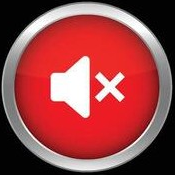
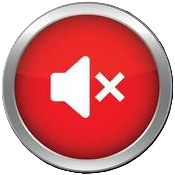
levels added

Changed region(s): [[0.0, 0.0, 1.0, 1.0]]

diff --git a/script.js b/script.js
@@ -70,7 +70,7 @@ let keys={
 
 let levelSystem={
     currentLevel:1,
-    maxLevel:5,
+    maxLevel:8,
     levelComplete:false,
     showingTransition:false,
     allLevelsComplete:false,
@@ -82,43 +82,67 @@ let levelSystem={
 const LEVEL_CONFIG={
     1:{
         rows:3,
-        columns:5,
+        columns:4,
         enemySpeed:3,
         shootingFrequency:100,
         bonusPoints:500,
-        totalGroups:5
+        totalGroups:1
     },
     2:{
+        rows:3,
+        columns:5,
+        enemySpeed:3,
+        shootingFrequency:95,
+        bonusPoints:750,
+        totalGroups:1
+    },
+    3:{
+        rows:4,
+        columns:5,
+        enemySpeed:3.5,
+        shootingFrequency:90,
+        bonusPoints:1000,
+        totalGroups:1
+    },
+    4:{
         rows:4,
         columns:6,
         enemySpeed:3.5,
         shootingFrequency:80,
-        bonusPoints:750,
-        totalGroups:5
-    },
-    3:{
-        rows:5,
-        columns:7,
-        enemySpeed:4,
-        shootingFrequency:60,
-        bonusPoints:1000,
-        totalGroups:5
-    },
-    4:{
-        rows:5,
-        columns:8,
-        enemySpeed:4.5,
-        shootingFrequency:50,
-        bonusPoints:1500,
-        totalGroups:6
+        bonusPoints:1250,
+        totalGroups:1
     },
     5:{
+        rows:5,
+        columns:6,
+        enemySpeed:4,
+        shootingFrequency:70,
+        bonusPoints:1500,
+        totalGroups:1
+    },
+    6:{
+        rows:5,
+        columns:7,
+        enemySpeed:4.5,
+        shootingFrequency:60,
+        bonusPoints:1750,
+        totalGroups:1
+    },
+    7:{
+        rows:6,
+        columns:7,
+        enemySpeed:5,
+        shootingFrequency:50,
+        bonusPoints:2000,
+        totalGroups:1
+    },
+    8:{
         rows:6,
         columns:8,
         enemySpeed:5,
         shootingFrequency:40,
-        bonusPoints:2000,
-        totalGroups:6
+        bonusPoints:2500,
+        totalGroups:1
     }
 }
 
@@ -129,7 +153,7 @@ let game={
 
 let frames=0;
 let spawnBufferMs=2200;
-let nextGridSpawnTime=0;
+let nextGridSpawnTime = 0;
 const MIN_GRID_GAP_MS=1200;
 
 let fps=60;
@@ -584,7 +608,7 @@ function init(){
 
     levelSystem={
         currentLevel:1,
-        maxLevel:5,
+        maxLevel:8,
         levelComplete:false,
         showingTransition:false,
         allLevelsComplete:false,

diff --git a/styles.css b/styles.css
@@ -314,7 +314,7 @@ canvas{
   grid-column: 2;
   grid-row: 2;
   justify-self: end;
-  margin-right: clamp(-45px, -5vw, -60px);
+  margin-right: clamp(-50px, -5vw, -60px);
 }
  
 .cornerControl,
@@ -584,3 +584,7 @@ canvas{
   font-size: clamp(24px, 2.6vw, 46px);
   color: #ffd700;
 }
+
+
+
+
